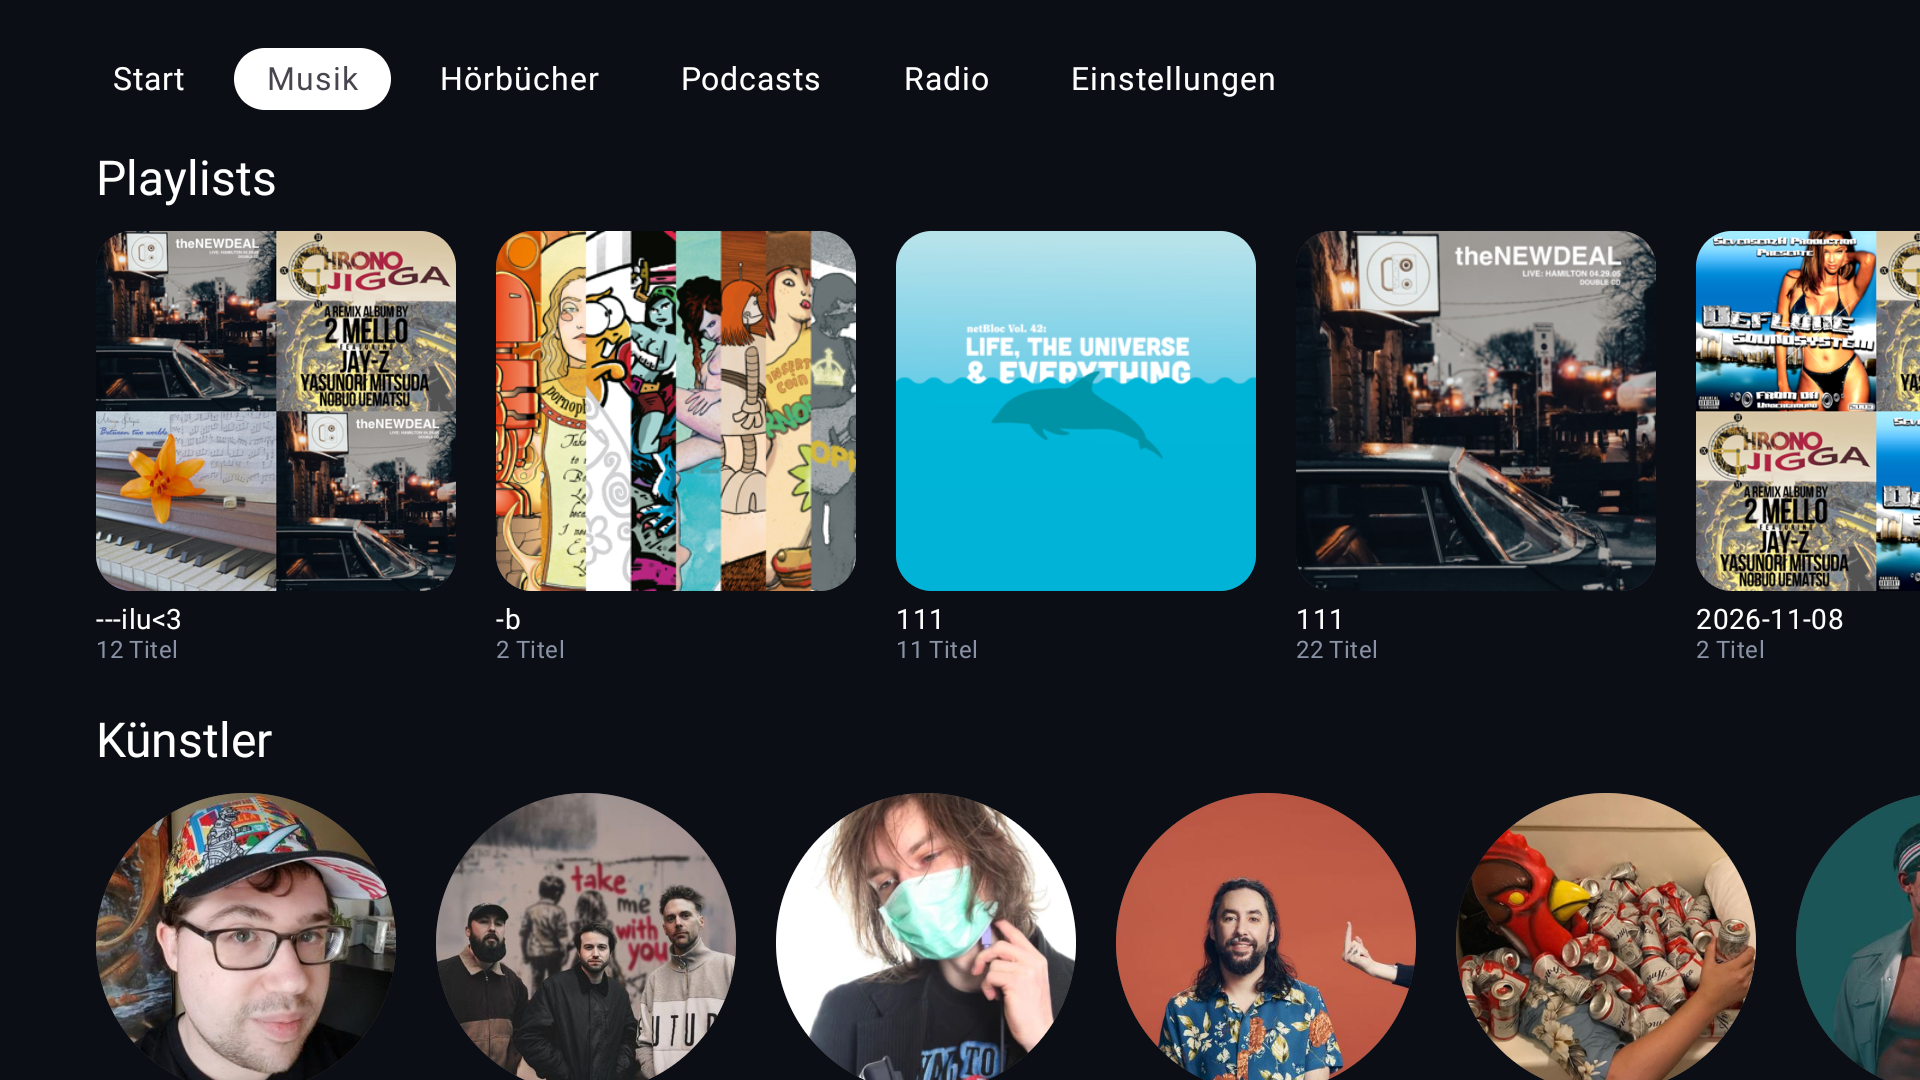
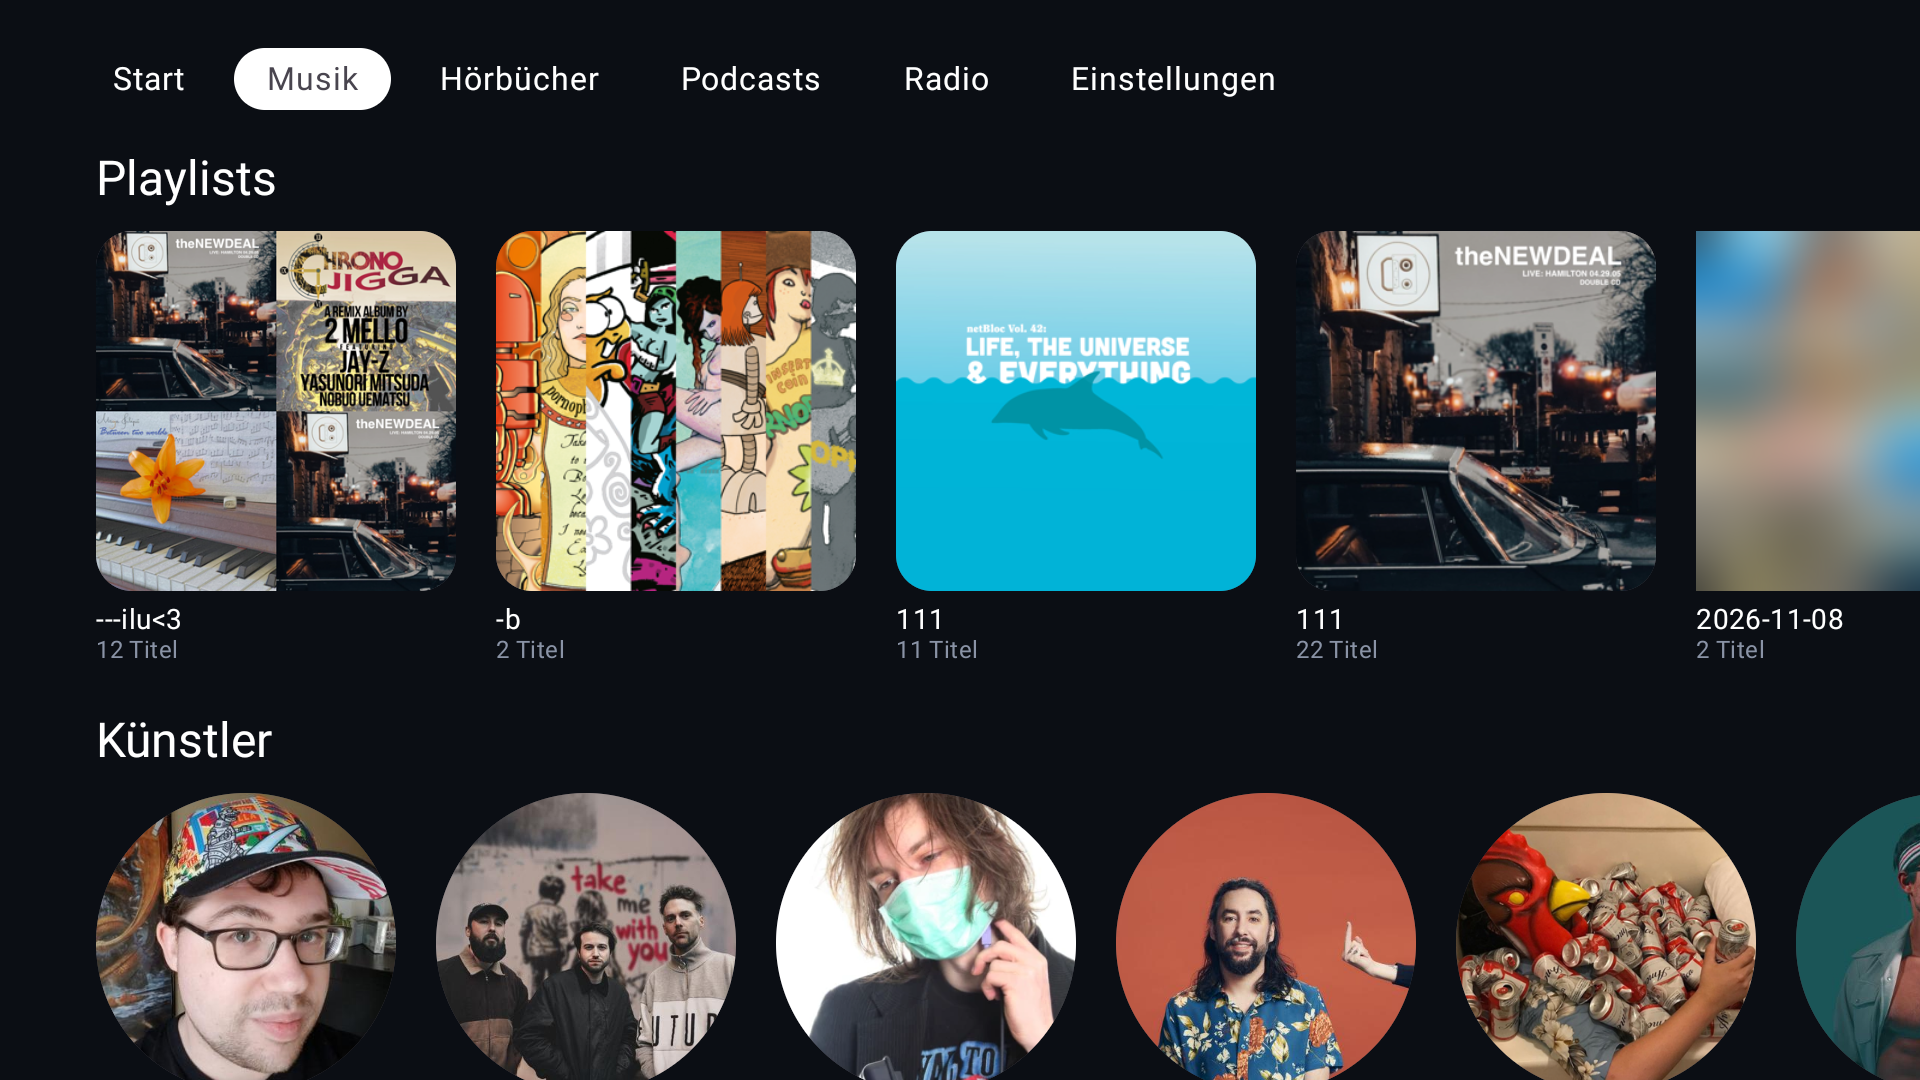
TV-App: Radio ohne Dienst über Navidrome statt Fehlermeldung, Fokus auf „Abspielen“/erste Folge/Pause; Store-Foto Musik: Demo-Cover verwischt
Claude-Session: https://claude.ai/code/session_01CRPuVHWoeyycHujUFLfb59

Changed region(s): [[0.875, 0.2139, 1.0, 0.55]]

diff --git a/TV/app/src/main/java/de/drdothouse/ohrregal/tv/Seiten.kt b/TV/app/src/main/java/de/drdothouse/ohrregal/tv/Seiten.kt
@@ -13,6 +13,8 @@ import androidx.compose.ui.platform.LocalContext
 import androidx.compose.ui.unit.dp
 import androidx.tv.material3.*
 import kotlinx.coroutines.launch
+import androidx.compose.ui.focus.FocusRequester
+import androidx.compose.ui.focus.focusRequester
 import org.json.JSONObject
 import java.text.SimpleDateFormat
 import java.util.Date
@@ -109,7 +111,8 @@ fun RadioTab(n: Navidrome, oeffne: (Seite) -> Unit) {
     // Mit eigenem Dienst gibt es Logos; sonst die Sender direkt aus Navidrome.
     val (sender, fehler) = laden(n) {
         val (code, text) = runCatching { Netz.hole(n.server + "/wunsch-api/musik/sender", kopf = n.dienstKopf) }.getOrDefault(0 to "")
-        val dienst = if (code == 200) JSONObject(text) else null
+        // Ohne eigenen Dienst kommt oft eine HTML-Seite zurück: dann einfach die Navidrome-Sender.
+        val dienst = if (code == 200) runCatching { JSONObject(text) }.getOrNull() else null
         if (dienst?.optBoolean("eingerichtet") == true)
             dienst.liste("sender").map { Triple(Sender(it.getString("id"), it.optString("name"), it.optString("streamUrl")), it.text("bild"), Unit) }
         else n.sender().map { Triple(it, null as String?, Unit) }
@@ -124,6 +127,9 @@ fun RadioTab(n: Navidrome, oeffne: (Seite) -> Unit) {
 @Composable
 fun TitelSeite(titel: String, untertitel: String, cover: String?, oeffne: (Seite) -> Unit, holen: suspend () -> List<Titel>) {
     val (liste, fehler) = laden(titel + untertitel) { holen() }
+    val fokus = remember { FocusRequester() }
+    // Mit der Fernbedienung gleich auf „Abspielen“.
+    LaunchedEffect(Unit) { runCatching { fokus.requestFocus() } }
     Row(Modifier.fillMaxSize().padding(48.dp)) {
         Column(Modifier.width(320.dp)) {
             Bild(cover, 300.dp)
@@ -132,7 +138,7 @@ fun TitelSeite(titel: String, untertitel: String, cover: String?, oeffne: (Seite
             Text(untertitel, color = Farben.gedaempft)
             Spacer(Modifier.height(16.dp))
             Row(horizontalArrangement = Arrangement.spacedBy(12.dp)) {
-                Button(onClick = { liste?.let { Wiedergabe.spiele(it); oeffne(Seite.Player) } }) { Text("▶ Abspielen") }
+                Button(onClick = { liste?.let { Wiedergabe.spiele(it); oeffne(Seite.Player) } }, modifier = Modifier.focusRequester(fokus)) { Text("▶ Abspielen") }
                 Button(onClick = { liste?.let { Wiedergabe.spiele(it.shuffled()); oeffne(Seite.Player) } }) { Text("Zufällig") }
             }
         }
@@ -164,6 +170,8 @@ fun KuenstlerSeite(k: Kuenstler, n: Navidrome, oeffne: (Seite) -> Unit) {
 @Composable
 fun PodcastSeite(p: Eintrag, abs: Audiobookshelf?, oeffne: (Seite) -> Unit) {
     val (folgen, fehler) = laden(p.id) { abs?.folgen(p) ?: emptyList() }
+    val fokus = remember { FocusRequester() }
+    LaunchedEffect(folgen) { if (!folgen.isNullOrEmpty()) runCatching { fokus.requestFocus() } }
     Row(Modifier.fillMaxSize().padding(48.dp)) {
         Column(Modifier.width(320.dp)) {
             Bild(abs?.cover(p.id, p.stand), 300.dp)
@@ -176,8 +184,9 @@ fun PodcastSeite(p: Eintrag, abs: Audiobookshelf?, oeffne: (Seite) -> Unit) {
             fehler != null -> Hinweis(fehler)
             folgen == null -> Hinweis("Lädt …")
             else -> LazyColumn(verticalArrangement = Arrangement.spacedBy(4.dp)) {
-                items(folgen) { f ->
+                itemsIndexed(folgen) { i, f ->
                     ListItem(selected = false, onClick = { Wiedergabe.spiele(f.itemId, f.id); oeffne(Seite.Player) },
+                        modifier = if (i == 0) Modifier.focusRequester(fokus) else Modifier,
                         headlineContent = { Text(f.titel, maxLines = 2) },
                         supportingContent = { Text(listOf(datumText(f.datum), if (f.dauer > 0) "${(f.dauer / 60).toInt()} Min." else "").filter { it.isNotEmpty() }.joinToString(" · ")) })
                 }
@@ -189,6 +198,8 @@ fun PodcastSeite(p: Eintrag, abs: Audiobookshelf?, oeffne: (Seite) -> Unit) {
 @Composable
 fun PlayerSeite() {
     val a = Wiedergabe.anzeige
+    val fokus = remember { FocusRequester() }
+    LaunchedEffect(a != null) { if (a != null) runCatching { fokus.requestFocus() } }
     if (a == null) { Hinweis(Wiedergabe.fehler ?: "Lädt …"); return }
     Row(Modifier.fillMaxSize().padding(56.dp), verticalAlignment = Alignment.CenterVertically) {
         Bild(a.cover, 380.dp)
@@ -208,7 +219,7 @@ fun PlayerSeite() {
             Spacer(Modifier.height(24.dp))
             Row(horizontalArrangement = Arrangement.spacedBy(16.dp), verticalAlignment = Alignment.CenterVertically) {
                 Button(onClick = { Wiedergabe.zurueck() }) { Text(if (Wiedergabe.istHoerbuch) "‹ 15 s" else "⏮") }
-                Button(onClick = { Wiedergabe.umschalten() }) { Text(if (Wiedergabe.spielt) "❚❚ Pause" else "▶ Abspielen") }
+                Button(onClick = { Wiedergabe.umschalten() }, modifier = Modifier.focusRequester(fokus)) { Text(if (Wiedergabe.spielt) "❚❚ Pause" else "▶ Abspielen") }
                 Button(onClick = { Wiedergabe.weiter() }) { Text(if (Wiedergabe.istHoerbuch) "30 s ›" else "⏭") }
                 SchlafKnopf()
             }
